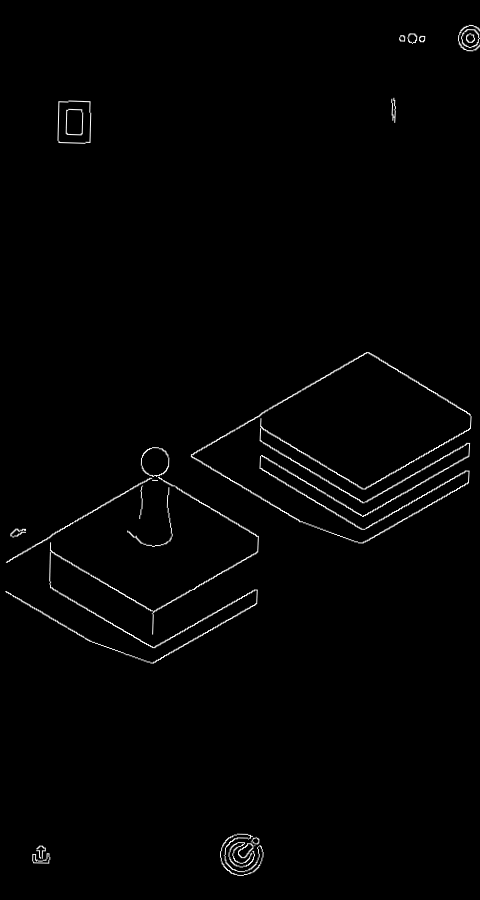
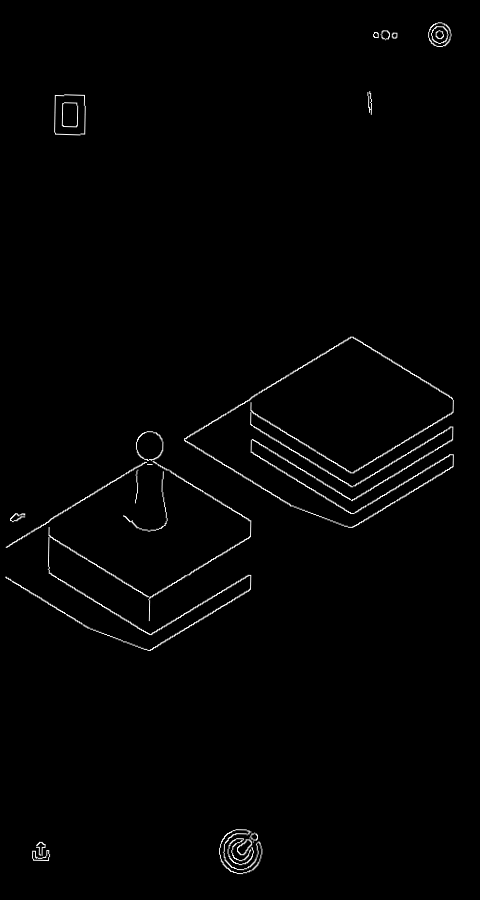
merge find point

diff --git a/play.py b/play.py
@@ -30,6 +30,37 @@ def jump(distance):
     os.system(cmd)
     print(cmd)
 
+def findPoint(pointSet):
+    leftx = 100000
+    rightx = 0
+    topy = 100000
+    bottomy = 0
+    lefty = 100000
+    righty = 0
+    bottomx = 100000
+    topx = 0
+    for point in pointSet:
+        if point[0] < leftx:
+            leftx = point[0]
+        elif point[0] > rightx:
+            rightx = point[0]
+        if point[1] < topy:
+            topy = point[1]
+        elif point[1] > bottomy:
+            bottomy = point[1]
+    for point in pointSet:
+        if point[0] == leftx and point[1] < lefty:
+            lefty = point[1]
+        if point[0] == rightx and point[1] > righty:
+            righty = point[1]
+        if point[1] == bottomy and point[0] < bottomx:
+            bottomx = point[0]
+        if point[1] == topy and point[0] > topx:
+            topx = point[0]
+    # 返回左，右，上，下的坐标
+    return (leftx, lefty), (rightx, righty), (bottomx, bottomy), (topx, topy)
+    # print(left, lefty, right, righty, bottom, bottomx, top, topx)
+
 
 def get_center(img_canny, ):
     # 利用边缘检测的结果寻找物块的上沿和下沿
@@ -62,20 +93,22 @@ def pre_process(img_rgb):
     _,contours, hierarchy = cv2.findContours(binary, cv2.RETR_EXTERNAL,cv2.CHAIN_APPROX_SIMPLE)  
     cv2.drawContours(img,contours,0,(0,0,0),10)  
     pentagram = contours[0] 
-    leftmost = tuple(pentagram[:,0][pentagram[:,:,0].argmin()])  
-    rightmost = tuple(pentagram[:,0][pentagram[:,:,0].argmax()]) 
-    upmost = tuple(pentagram[:,0][pentagram[:,:,1].argmax()])  
-    downmost = tuple(pentagram[:,0][pentagram[:,:,1].argmin()]) 
-    print(leftmost) 
-    print(rightmost)
-    print(downmost)
-    print(upmost)
+    lu,rd,ld,ru=findPoint(pentagram[:,0])
+    print(lu,ru,ld,rd)
+    # leftmost = tuple(pentagram[:,0][pentagram[:,:,0].argmin()])  
+    # rightmost = tuple(pentagram[:,0][pentagram[:,:,0].argmax()]) 
+    # upmost = tuple(pentagram[:,0][pentagram[:,:,1].argmax()])  
+    # downmost = tuple(pentagram[:,0][pentagram[:,:,1].argmin()]) 
+    # print(leftmost) 
+    # print(rightmost)
+    # print(downmost)
+    # print(upmost)
 
     #warp
     rows, cols = img.shape[:2]
     # 原图中卡片的四个角点
     # pts1 = np.float32([list(leftmost),list(downmost),list(upmost),list(rightmost)])
-    pts1 = np.float32([[502, 325],[979, 309],  [520, 1229],[1030, 1219]])
+    pts1 = np.float32([lu,ru, ld, rd])
     # 变换后分别在左上、右上、左下、右下四个点
     pts2 = np.float32([[0, 0], [480, 0], [0, 900], [480, 900]])
     # 生成透视变换矩阵
